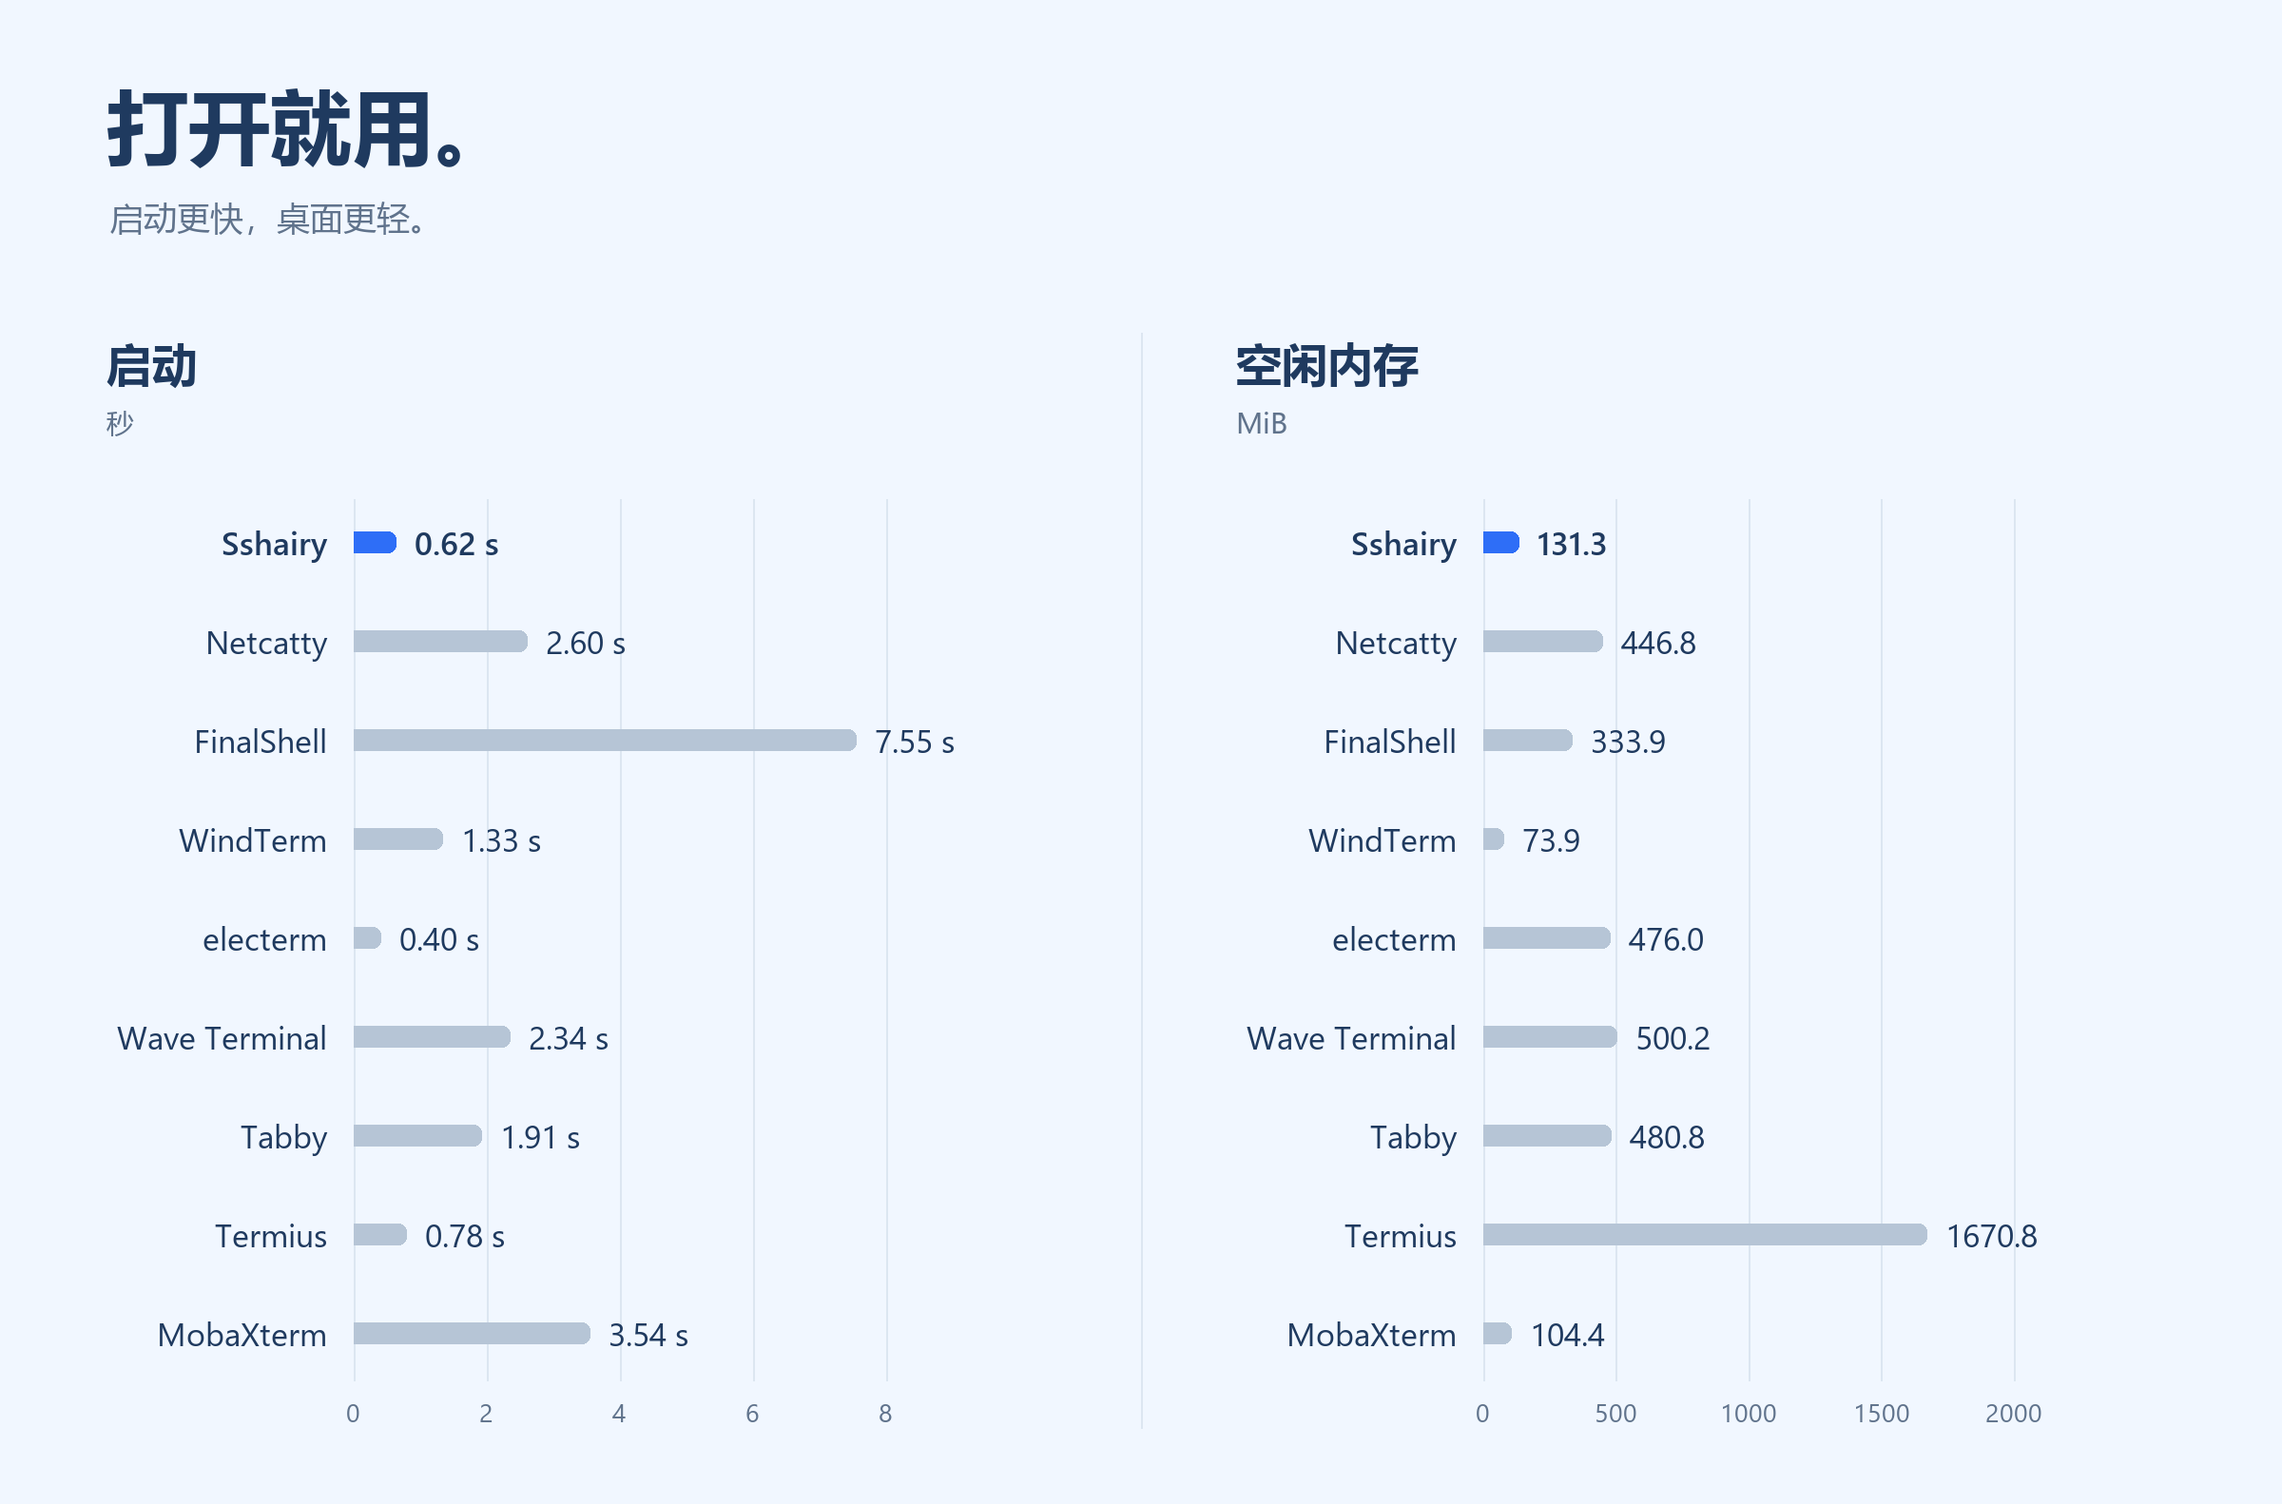
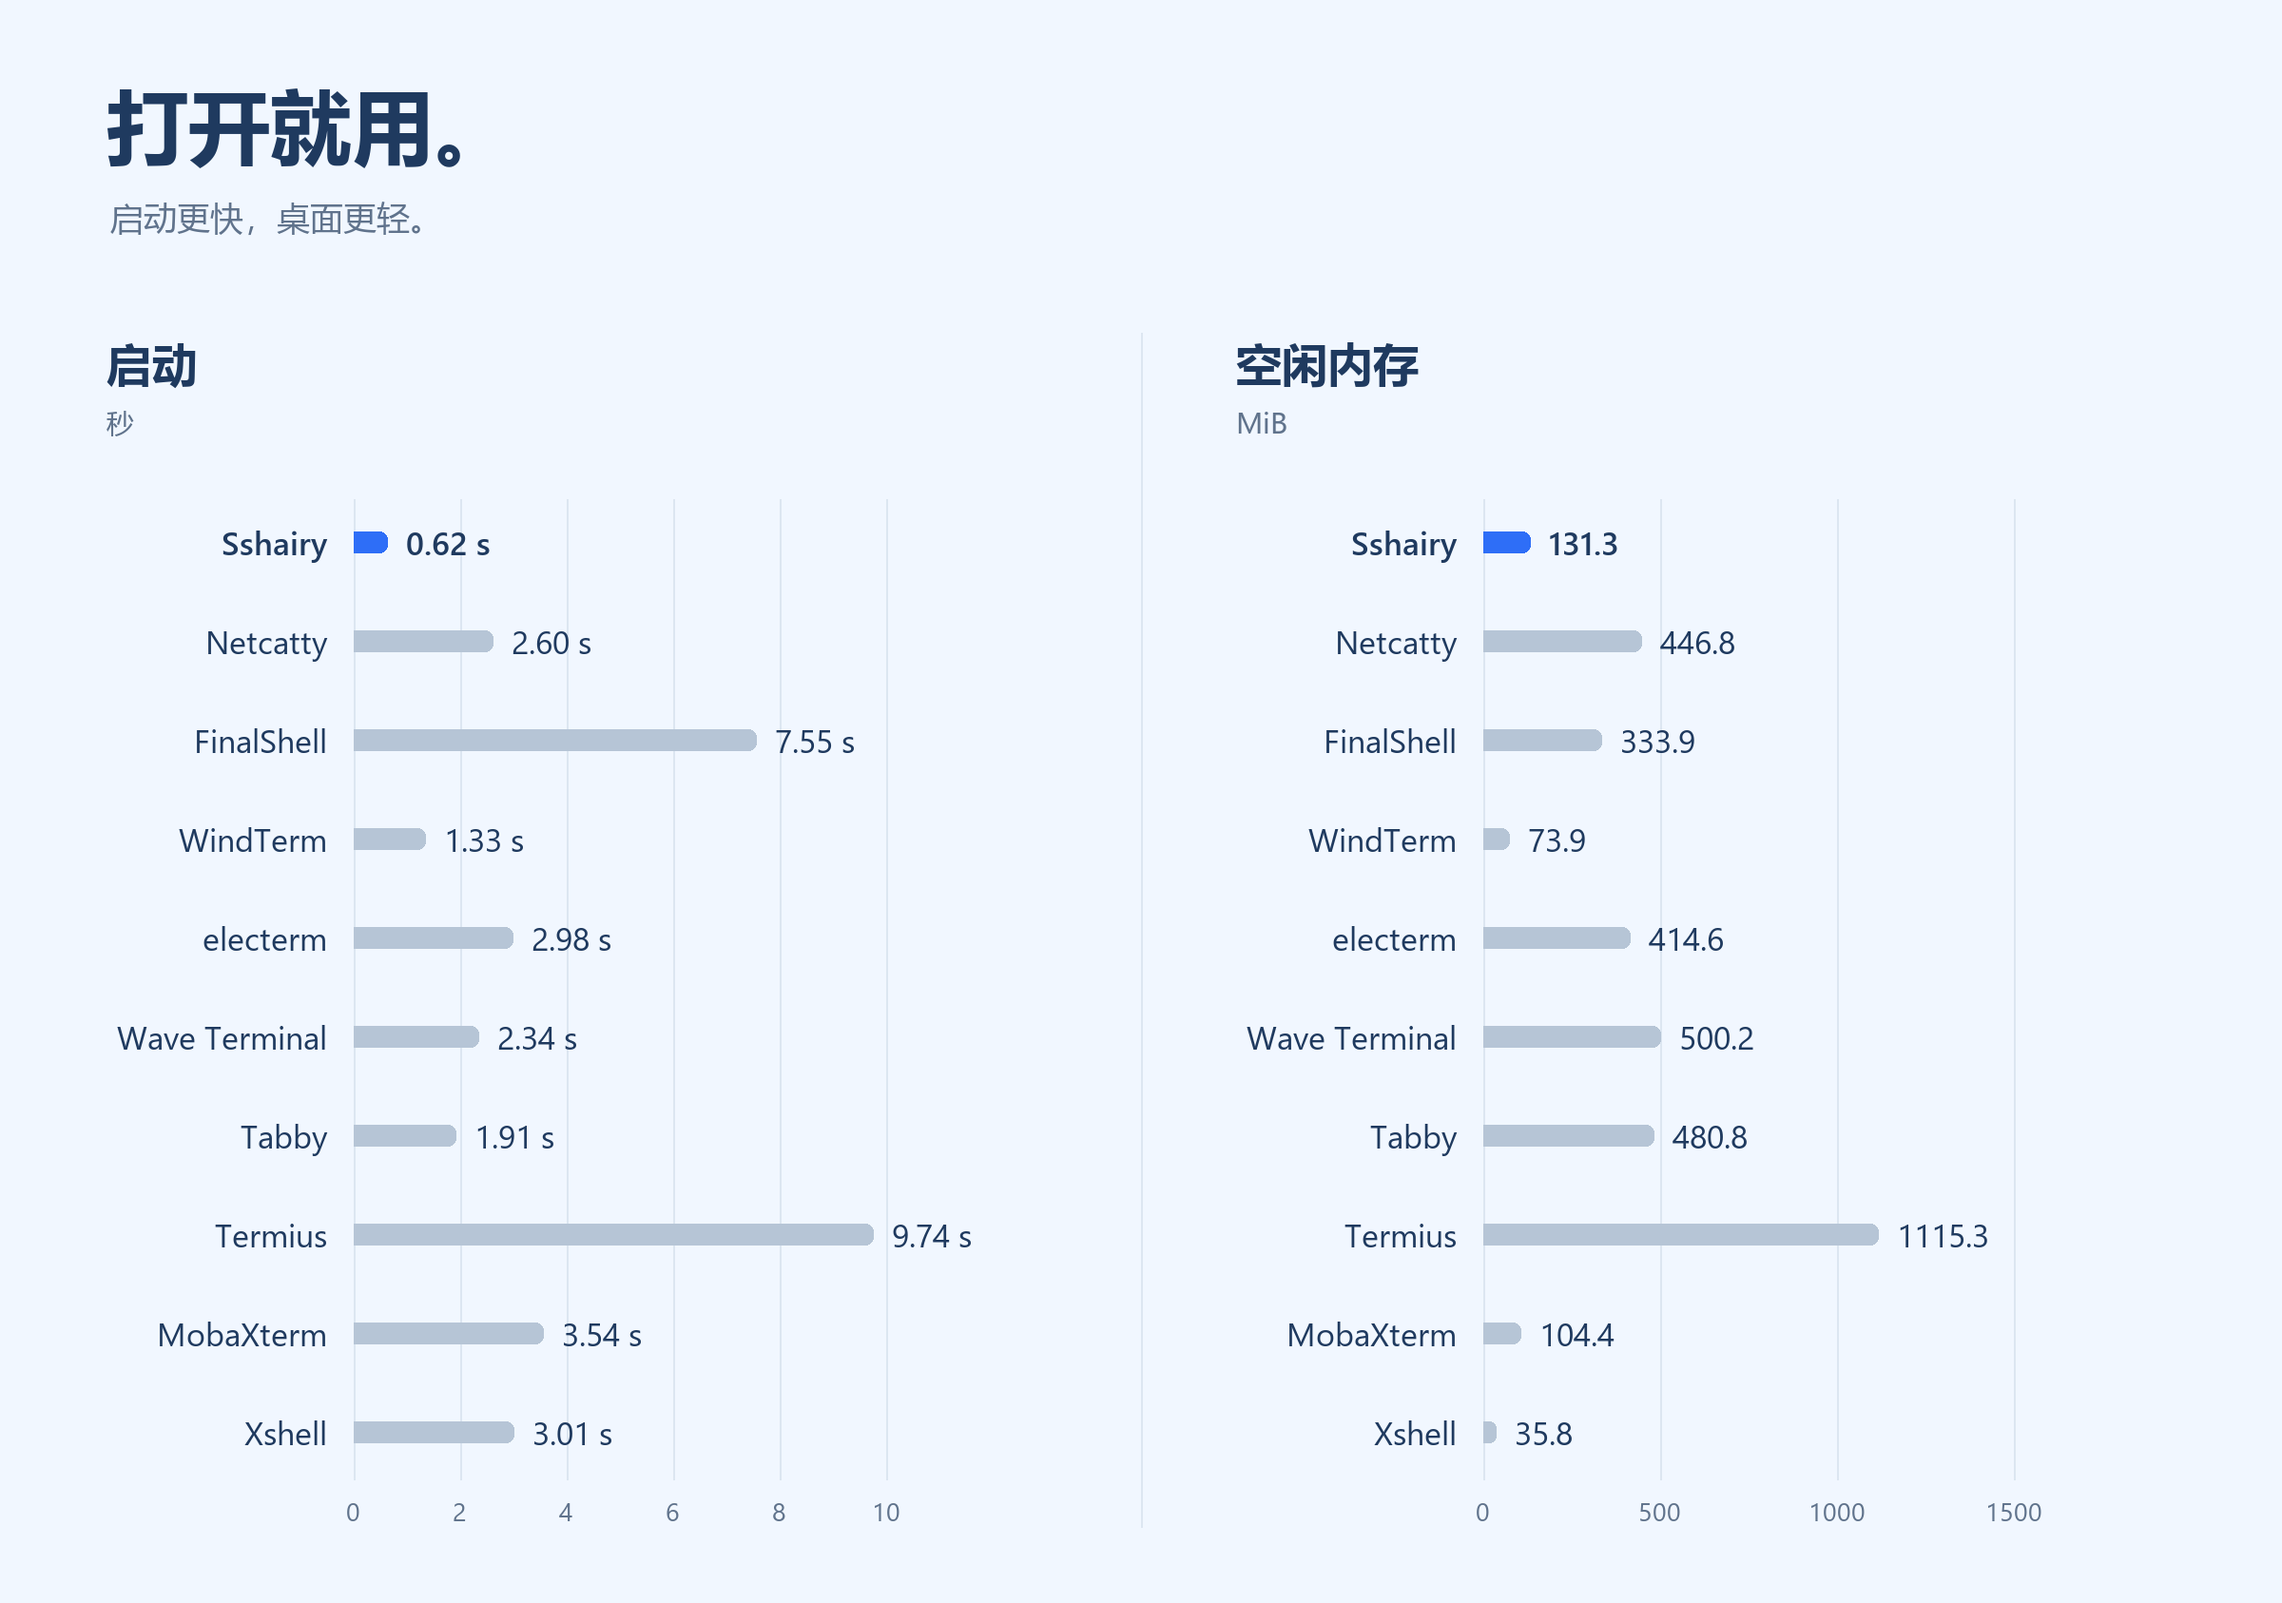
docs: measure client startup at workspace readiness

diff --git a/tool/readme/SOURCES.md b/tool/readme/SOURCES.md
@@ -19,7 +19,7 @@ python -I -X utf8 tool/readme/make_images.py
 
 [benchmarks.json](benchmarks.json) supplies the performance charts and stores versions, startup samples, memory, application folder sizes, download URLs and artifact hashes.
 
-Measurements taken on 2026-11-13. The invalid Xshell attempt on 2026-11-14 is documented below. Startup: one warm-up followed by five launches, median time to the first visible window of at least 600 × 400. Memory: whole-process-tree USS 15 seconds after that window appears. This automated size check cannot distinguish a usable main window from activation, login or onboarding; the Xshell correction does not validate the other clients' readiness. Runs are sequential and use no remote SSH connections. Portable and Electron clients use separate profiles. Default local tabs and bundled helper processes are included. Application folder sizes count extracted or installed application files; the README's Sshairy ZIP size refers to the original application bundle.
+Measurements collected on 2026-11-13, with Xshell, electerm and signed-in Termius remeasured on 2026-11-14 against actual workspace readiness. One warm-up precedes five launches; startup is their median. Xshell waits for a visible enabled `Xshell8::MainFrame_*` with an `Xshell8::CoreApp` terminal child, after closing its registration prompt through the normal window close action. electerm waits until Windows UI Automation exposes its visible enabled terminal Edit. Termius waits for visible enabled Hosts, New Host and SFTP buttons in its signed-in workspace, without welcome/sign-in buttons. The other rows retain their earlier first-visible-window baseline (at least 600 × 400); they were not rechecked in this revision. Window size alone cannot prove application readiness. Memory is whole-process-tree USS 15 seconds after the relevant readiness signal, including default local tabs and helper processes. Runs are sequential, use no remote SSH connections and count extracted or installed application files; the Sshairy ZIP size refers to the original application bundle.
 
 | Client | Version | Startup | Idle USS | App folder | Processes |
 |---|---|---:|---:|---:|---:|
@@ -27,21 +27,26 @@ Measurements taken on 2026-11-13. The invalid Xshell attempt on 2026-11-14 is do
 | Netcatty | 1.1.90 | 2.604 s | 446.8 MiB | 471.8 MiB | 5 |
 | FinalShell | JAR 2025-04-08 / JRE 17.0.7 | 7.548 s | 333.9 MiB | 189.4 MiB | 3 |
 | WindTerm | 2.7.0 | 1.333 s | 73.9 MiB | 75.8 MiB | 7 |
-| electerm | 5.10.0 | 0.404 s | 476.0 MiB | 365.9 MiB | 8 |
+| electerm | 5.10.0 | 2.977 s | 414.6 MiB | 365.9 MiB | 8 |
 | Wave Terminal | 0.14.5 | 2.341 s | 500.2 MiB | 616.1 MiB | 7 |
 | Tabby | 1.0.238 | 1.913 s | 480.8 MiB | 481.4 MiB | 5 |
-| Termius | 10.4.1 | 0.784 s | 1670.8 MiB | 557.8 MiB | 7 |
+| Termius | 10.4.1 | 9.742 s | 1115.3 MiB | 557.8 MiB | 7 |
 | MobaXterm | 26.6 | 3.545 s | 104.4 MiB | 47.1 MiB | 2 |
+| Xshell | 8.0.0120 | 3.008 s | 35.8 MiB | 102.6 MiB | 2 |
 
-Sshairy, Netcatty and FinalShell retain their earlier measurements. WindTerm, electerm, Wave, Tabby, Termius and MobaXterm were downloaded from official releases and run for this revision. WindTerm uses its fresh portable tree; the Electron clients use explicit user-data directories, redirected home/AppData paths and supported application-specific profile variables. Tabby and Termius are extracted from their official installers; Wave and electerm use portable archives. Termius is measured without signing in to an account. MobaXterm uses its Home portable release with an explicit temporary INI path. Test processes are closed after each run.
+Sshairy, Netcatty and FinalShell retain their earlier measurements. WindTerm, Wave, Tabby and MobaXterm retain their 2026-11-13 runs from official releases. WindTerm uses its fresh portable tree; the Electron clients use explicit user-data directories, redirected home/AppData paths and supported application-specific profile variables. Tabby and Termius are extracted from their official installers; Wave and electerm use portable archives. MobaXterm uses its Home portable release with an explicit temporary INI path. The electerm remeasurement reuses only its benchmark-owned profile and verifies the terminal input through read-only accessibility inspection. Termius uses its normal Windows configuration after the author completed sign-in, without a temporary user-data-dir or redirected home/AppData paths; restart persistence was verified before accepting samples. Test processes are closed after each run.
 
[2 lines of base64/hex data omitted]
+
+electerm's old 0.404 s result was also the native window shell: accessibility inspection found only window controls initially, with terminal input appearing later. Its new startup samples use the terminal-ready signal rather than that shell.
+
+Termius 10.4.1 was remeasured after the author signed in and its actual Hosts workspace was verified. Its old 0.784 s / 1670.8 MiB row described native-window appearance and onboarding, so those values remain invalid. The high onboarding memory was reproducible (1678.3 MiB USS at about 16 seconds, including 1064.4 MiB in the GPU process), but is not the signed-in idle baseline. The earlier temporary-profile launch and the normal Windows sign-in callback used different startup parameters; the accepted remeasurement uses the normal configuration consistently. Normal close and restart retained sign-in. Every warm-up/sample verifies visible enabled Hosts, New Host and SFTP buttons with no welcome/sign-in buttons; all runs exit normally without force termination. The new median is 9.742 s and idle process-tree USS is 1115.3 MiB, sampled 15 seconds after workspace readiness. The benchmark did not read credential files, supply account information, open SSH connections or inspect browser content during the accepted runs. Its downloaded artifact (327.9 MiB) and extracted app folder (557.8 MiB) remain valid size measurements.
 
 The README's comparison to Netcatty rounds `1 - 131.3 / 446.8 = 70.6%` to 71% lower idle memory and `2.604 / 0.624 = 4.17` to 4× the startup speed.
 
-The baseline harness is [measure_startup.py](measure_startup.py). For Electron clients, pass `--user-data-dir=<empty-profile>/electron` and their application-specific configuration overrides when running the harness. Additional isolation used for the new clients:
+The baseline harness is [measure_startup.py](measure_startup.py). For isolated Electron baselines, pass `--user-data-dir=<empty-profile>/electron` and their application-specific configuration overrides; signed-in Termius follows the normal-profile method above. Additional isolation used for the other clients:
 
-- All clients: redirected `HOME`, `USERPROFILE`, `HOMEDRIVE`, `HOMEPATH`, `APPDATA`, `LOCALAPPDATA` and XDG configuration/data/cache directories.
+- Isolated portable and Electron baselines: redirected `HOME`, `USERPROFILE`, `HOMEDRIVE`, `HOMEPATH`, `APPDATA`, `LOCALAPPDATA` and XDG configuration/data/cache directories.
 - Tabby: `TABBY_CONFIG_DIRECTORY`.
 - Wave: `WAVETERM_DATA_HOME`, `WAVETERM_CONFIG_HOME`, `WAVETERM_NOCONFIRMQUIT=1`.
 - electerm: `ELECTERM_REGISTER_PROTOCOLS=false`.

diff --git a/README.md b/README.md
@@ -62,11 +62,12 @@ Ice Blue / Mint, Mint Green, Violet, Sunset Orange, Deep Sea Blue and Sakura Pin
 | Netcatty | 2.60 s | 446.8 MiB | 471.8 MiB |
 | FinalShell | 7.55 s | 333.9 MiB | 189.4 MiB |
 | WindTerm | 1.33 s | 73.9 MiB | 75.8 MiB |
-| electerm | 0.40 s | 476.0 MiB | 365.9 MiB |
+| electerm | 2.98 s | 414.6 MiB | 365.9 MiB |
 | Wave Terminal | 2.34 s | 500.2 MiB | 616.1 MiB |
 | Tabby | 1.91 s | 480.8 MiB | 481.4 MiB |
-| Termius | 0.78 s | 1670.8 MiB | 557.8 MiB |
+| Termius | 9.74 s | 1115.3 MiB | 557.8 MiB |
 | MobaXterm | 3.54 s | 104.4 MiB | 47.1 MiB |
+| Xshell | 3.01 s | 35.8 MiB | 102.6 MiB |
 
 <!-- /benchmark-table -->
 

diff --git a/README.zh.md b/README.zh.md
@@ -62,11 +62,12 @@
 | Netcatty | 2.60 秒 | 446.8 MiB | 471.8 MiB |
 | FinalShell | 7.55 秒 | 333.9 MiB | 189.4 MiB |
 | WindTerm | 1.33 秒 | 73.9 MiB | 75.8 MiB |
-| electerm | 0.40 秒 | 476.0 MiB | 365.9 MiB |
+| electerm | 2.98 秒 | 414.6 MiB | 365.9 MiB |
 | Wave Terminal | 2.34 秒 | 500.2 MiB | 616.1 MiB |
 | Tabby | 1.91 秒 | 480.8 MiB | 481.4 MiB |
-| Termius | 0.78 秒 | 1670.8 MiB | 557.8 MiB |
+| Termius | 9.74 秒 | 1115.3 MiB | 557.8 MiB |
 | MobaXterm | 3.54 秒 | 104.4 MiB | 47.1 MiB |
+| Xshell | 3.01 秒 | 35.8 MiB | 102.6 MiB |
 
 <!-- /benchmark-table -->
 
